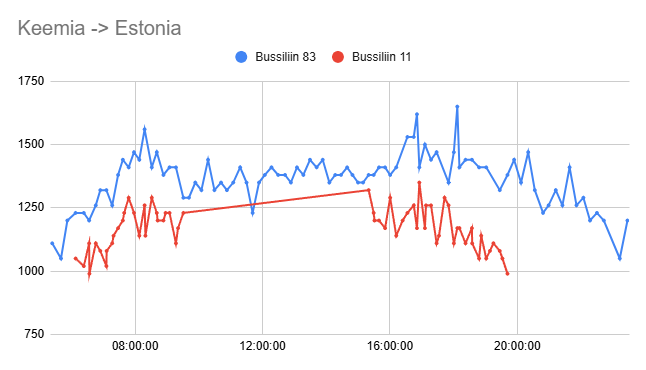
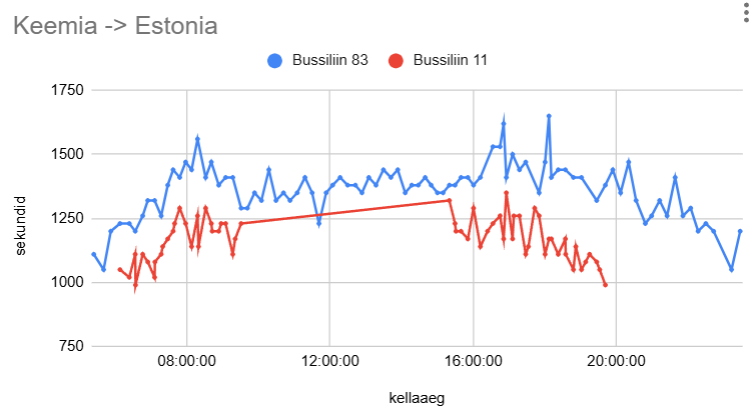
Refactor thesis content and improve references
- Updated the description and captions in the "taust.tex" chapter for clarity and conciseness.
- Enhanced the "tulemused.tex" chapter by refining the abstract and improving the presentation of figures and tables.
- Corrected the formatting of references in "references.bib" for consistency and accuracy, including date formats.
- Added new references related to Tallinn's public transport and data management tools.
- Updated the thesis style file "thesis.sty" to adjust the table of contents formatting.
- Replaced several images with updated versions to enhance visual representation.

diff --git a/thesis_paper/Tallinna ühistranspordi reaalajaandmete kogumine, analüüsimine ja visualiseerimine/chapters/metoodika.tex b/thesis_paper/Tallinna ühistranspordi reaalajaandmete kogumine, analüüsimine ja visualiseerimine/chapters/metoodika.tex
@@ -5,7 +5,7 @@ Töö planeerimisel ei olnud esialgu selge, kuidas täpselt töö valmima peaks.
 \begin{figure}[h!]
     \centering
     \includegraphics[width=0.95\textwidth]{figures/struktuur.png}
-    \caption{Arhitektuuriline lahendus, kus andmed kogutakse ja salvestatakse andmebaasi ning kuvatakse veebilehel olevatel alamlehtedel.}
+    \caption{Arhitektuuriline lahendus.}
     \label{fig:Struktuur}
 \end{figure}
 
@@ -86,15 +86,7 @@ Raspberry Pi 4 ja kõvaketas valiti töö jaoks, kuna mõlemad olid autoril enne
 \section{Andmete kogumise skript} % This creates a new section with the title "First Section of the First Chapter."
 Reaalaajaandmete kogumiseks on kirjutatud Pythonis skript, mida haldab \textit{systemd} ja mis käivitatakse \textit{systemctl} käsureatööriista abil teenusena. See võimaldab skripti automaatset käivitamist, tõrgete korral taaskäivitamist ning logide jälgimist.
 
-Staatilisi andmeid kogutakse iga päev kell 04:00. Esialgu koguti andmeid selliselt nagu \url{transport.tallinn.ee} oma enda veebilehe siseseid päringuid tegi, mis tähendas, et osad andmed olid ebastandartsel kujul ja inimesele raskesti arusaadavad. Kõige suuremaid raskusi põhjustas autorile ajagraafiku failist arusaamine (Joonis \ref{fig:Ajagraafikute}), ning autor ei suutnudki seda lõpikult teha. See muutis teisele uurimusküsimusele ("Kui suured on liinil sõitvate sõidukite hilinemised?") vastuse leidmise väga ajanõudvaks. Alles töö lõpus leiti, et samal leheküljel eksisteeris ka paremini arusaadav fail.
-
-
- \begin{figure}[h!]
-    \centering
-    \includegraphics[width=1\textwidth]{figures/arusaamatud andmed.png}
-    \caption{Paar rida raskesti arusaadavast ajagraafikute failist.}
-    \label{fig:Ajagraafikute}
-\end{figure}
+Staatilisi andmeid kogutakse iga päev kell 04:00. Esialgu koguti andmeid selliselt nagu \url{transport.tallinn.ee} oma enda veebilehe siseseid päringuid tegi, mis tähendas, et osad andmed olid ebastandartsel kujul ja inimesele raskesti arusaadavad. Kõige suuremaid raskusi põhjustas autorile ajagraafiku failist \footnote{\url{https://tallinn.simplytobo.eu/transport_data/transport_data/bus_times_data/2025-06-04/routes.txt}} arusaamine, ning autor ei suutnudki seda lõpikult teha. See muutis teisele uurimusküsimusele ("Kui suured on liinil sõitvate sõidukite hilinemised?") vastuse leidmise väga ajanõudvaks. Alles töö lõpus leiti, et samal leheküljel eksisteeris ka paremini arusaadav fail.
  
 Töö lõpus leiti, et \url{transport.tallinn.ee} lehel on olemas GTFS formaadis koht, kust saab heal kujul andmeid, sealhulgas ajagraafikuid. Autor lisas GTFS andmete kogumise loogika.  Selleks tehakse igal hommikul päring päise (\textit{header}) küsimiseks. Kui päises on rida (\textit{Last-Modified}), mis kirjeldab millal viimati andmeid muudetud, on vahepeal uuenenud, siis tehakse uus päring ja laetakse andmed päriselt alla. GTFS fail on  pigem väike (alla 10 MB), kuid hea tava on ikkagi laadida ainult siis, kui vajadus.
 
@@ -116,16 +108,9 @@ Töö algul moodustasid reaalajaandmed 98\% andmemahust. JSON kujul andmeid kogu
 
 Vahepeal katsetati SQLite andmebaasi võimalusi, kuid andmemahud olid seal sama suured ja suuremadki kui samapalju andmeid JSON kujul kaustades. 
 
-Lõpuks jõuti TimescaleDB juurde ja leiti viis seal andmeid optimaalsemalt hoiustada. Joonisel \ref{fig:TimescaleDB} on näha SQL käske, mille sisestamisel muutus andmebaasi suurus 26 GB pealt 2,8 GB peale (9 kuu andmed). Oma olemuselt seati reaalajaandmete hoiustamisel sisse reegel, et peale seitset päeva andmebaasis olemist muudetakse reapõhine andmebaas tulbapõhiseks ja andmete hoiustamine muudetakse optimaalsemaks \cite{timescale_hypercore}. Selle tulemusel oli andmebaasi nüüd võimalik jagada ja internetist alla laadida mõistliku aja piires\footnote{\url{https://tallinn.simplytobo.eu/transport_data/transport_data/realtime_database_copy/}}. Vahepeal katsetati kiiruse lisatulba lisamisega andmebaasile, mille käigus loodi uus andmebaas nullist, ning tehti samad eelpool tehtud käsud. Peale seda oli andmebaas 2,7 GB suur ja sisaldas 10 kuu andmeid. Võrreldes JSON kujul andmete hoiustamisega oli lõplik tulemus 90\% optimaalsem.
+Lõpuks jõuti TimescaleDB juurde ja leiti viis seal andmeid optimaalsemalt hoiustada.  Optimeerimise käigus muutus andmebaasi suurus 26 GB pealt 2,8 GB peale (9 kuu andmed). Oma olemuselt seati reaalajaandmete hoiustamisel sisse reegel, et peale seitset päeva andmebaasis olemist muudetakse reapõhine andmebaas tulbapõhiseks ja andmete hoiustamine muudetakse optimaalsemaks \cite{timescale_hypercore}. Selle tulemusel oli andmebaasi nüüd võimalik jagada ja internetist alla laadida mõistliku aja piires\footnote{\url{https://tallinn.simplytobo.eu/transport_data/transport_data/realtime_database_copy/}}. Vahepeal katsetati kiiruse lisatulba lisamisega andmebaasile, mille käigus loodi uus andmebaas nullist, ning tehti samad eelpool tehtud käsud. Peale seda oli andmebaas 2,7 GB suur ja sisaldas 10 kuu andmeid. Võrreldes JSON kujul andmete hoiustamisega oli lõplik tulemus 90\% optimaalsem.
 
 Kaustades andmete probleem oli ka nendest koopia tegemise ja jagamise aeglus. Ühe kuu andmete allalaadimine võttis kuskil 15 minutit ja 10 kuu puhul tuli arvestada 3 tunniga. TimescaleDB andmebaasiga  võttis aga 10 kuu kohta koopiafaili tegemine 12 minutit ja selle faili allalaadimine võttis 2 minutit. Allalaadimine muutus 99\% kiiremaks (3 tunni pealt 2 minuti peale).
-
-\begin{figure}[H] % h-here, if possible; H-here, definitely; t-top of the page; b-bottom of the page; p-page of floats
-    \centering
-    \includegraphics[width=.8\textwidth]{figures/timescaleDBSQL.png} % Includes an image from the specified path, setting the width to 50% of the text width
-    \caption{TimescaleDB optimeerimise SQL käsud. Sarnased andmed viiakse üksteisele andmebaasis lähemale ehk konkreetse sõiduki asukohad on järjest ning reapõhised andmed muudetakse 7 päeva möödudes tulbapõhisteks. } % Provides a caption for the figure, italicizing the text
-    \label{fig:TimescaleDB} % Sets a label for the figure to be referenced later
-\end{figure}
 
 \section{Kiiruste arvutamine}
 
@@ -133,14 +118,37 @@ Kuigi kohad, kus kiirusi arvutati, on ajas muutunud, on seda üldiselt alati sam
 
 \begin{figure}[h!]
     \centering
-    \includegraphics[width=0.92\textwidth]{figures/Sqlscript.png}
-    \caption{Kiiruste arvutamise lihtsustatud SQL skript. Esimeses osas leitakse igale asukohale sellele järgnev asukoht. Teises osas leitakse nende kahe asukoha ajaline ja vahemaaline vahe. Kolmandas osas leitakse mõlema jagatis ehk kiirus.}
-    \label{fig:kiirusteSQLskript}
+    \scriptsize
+\begin{lstlisting}
+WITH speed_data AS (
+    SELECT
+        datetime,
+        geom,
+        LEAD(geom) OVER (PARTITION BY type,line,vehicle_idORDER BY datetime)
+        AS next_point,
+        LEAD(datetime) OVER (PARTITION BY type, line,vehicle_id ORDER BY datetime)
+        AS next_time
+    FROM realtimedata
+),segment_data AS (
+    SELECT
+        EXTRACT(EPOCH FROM (next_time - datetime)) 
+        AS time_diff_seconds, 
+        ST_Distance(geom::GEOGRAPHY, next_point::GEOGRAPHY) 
+        AS distance_meters
+    FROM speed_data
+    WHERE next_point IS NOT NULL)
+SELECT 
+    (distance_meters / time_diff_seconds) * 3.6 
+    AS speed_kmh 
+FROM segment_data;
+\end{lstlisting}
+\caption{SQL päring sõiduki kiiruse arvutamiseks.}
+\label{fig:kiirusteSQLskript}
 \end{figure}
 
 \section{Andmete visualiseerimine}
 
-Alguses kogunes päevas 2880 reaalajaandmete faili kaustadesse ning andmete visualiseerimiseks tehti skript, mis pani kõik andmed ühte faili ja pakkis kokku. Hiljem skripti kiirust mõõtes selgus, et ühe päeva andmete salvestamiseks kulus 12 minutit. Seejärel veebileht sai teha päringu ja päeva andmed serverist alla laadida. Veebileht kasutab kaardi kuvamiseks Leaflet teeki \footnote{\url{https://leafletjs.com/}}. Antud kaardile lisati seejärel saadud asukohtade koordinaadid. Võimalik oli liikuda ajas edasi ja tagasi ning näha sõidukite liikumisi. Tegu oli lihtsa lehega. Edasiarenduste tegemine oli keeruline, kuna andmetöötlus oli aeganõudev ning halvasti hallatav. Sellegipoolest loodi Joonisel \ref{fig:Kiirustekaart} näha olev leht. Veebilehel kirjutati kood, mis grupeerib aegread aja asemel liini, tüübi ja sõiduki identifikaatori järgi. Seejärel olid andmed korrastatud sõidetud marsruutide järgi. Seda sai visualiseerida graafikul. Kuna bussikiirused kõiguvad väga palju ja andmeid on palju, siis paremaks kuvamiseks on iga andmepunkt nelja eelmise punkti keskmine. Kuigi muu eeltoodu ei ole enam kasutuses, siis see on endiselt alles.
+Alguses kogunes päevas 2880 reaalajaandmete faili kaustadesse ning andmete visualiseerimiseks tehti skript, mis pani kõik andmed ühte faili ja pakkis kokku. Hiljem skripti kiirust mõõtes selgus, et ühe päeva andmete salvestamiseks kulus 12 minutit. Seejärel veebileht sai teha päringu ja päeva andmed serverist alla laadida. Veebileht kasutab kaardi kuvamiseks Leaflet teeki \cite{leafletjs}. Antud kaardile lisati seejärel saadud asukohtade koordinaadid. Võimalik oli liikuda ajas edasi ja tagasi ning näha sõidukite liikumisi. Tegu oli lihtsa lehega. Edasiarenduste tegemine oli keeruline, kuna andmetöötlus oli aeganõudev ning halvasti hallatav. Sellegipoolest loodi Joonisel \ref{fig:Kiirustekaart} näha olev leht. Veebilehel kirjutati kood, mis grupeerib aegread aja asemel liini, tüübi ja sõiduki identifikaatori järgi. Seejärel olid andmed korrastatud sõidetud marsruutide järgi. Seda sai visualiseerida graafikul. Kuna bussikiirused kõiguvad väga palju ja andmeid on palju, siis paremaks kuvamiseks on iga andmepunkt nelja eelmise punkti keskmine. Kuigi muu eeltoodu ei ole enam kasutuses, siis see on endiselt alles.
 
 Andmete TimescaleDB andmebaasi tõstmisel tekkis vajadus serveri järele, mis võtaks vastu veebilehelt tulevad päringud, teeks päringu andmebaasi pihta ja tagastaks andmed. See muutis ka andmetöötluse loogikat. Nüüd toimus kõik SQL päringute kaudu. Endiselt leiti vahemaa kahe punkti vahel ja kulunud aeg. PostGIS andmebaasi laiendus muutis vahemaa leidmise eriti lihtsaks ja kiireks. Samuti võimaldas see välja lõigata liini otstes ja depoodes seismised.
 
@@ -155,7 +163,7 @@ Keerulisem on lugu GNSS asukohtadega, kuna need ei pruugi näidata õiget kohta 
 \begin{figure}[H] % h-here, if possible; H-here, definitely; t-top of the page; b-bottom of the page; p-page of floats
     \centering
     \includegraphics[width=.8\textwidth]{figures/gpsvead.png} % Includes an image from the specified path, setting the width to 50% of the text width
-    \caption{Bussiliini 1 asukoha andmed 16. märts 2025. Viru Keskuse maaaluse peatuse tõttu on sealsed asukohad ebatäpsed. Samuti on osad punktid Narva maantee ääres olevate majade peal. Ilmselt signaali seintelt peegeldumise tõttu.} % Provides a caption for the figure, italicizing the text
+    \caption{Veaga asukohad Kesklinnas.} % Provides a caption for the figure, italicizing the text
     \label{fig:gpsnoise} % Sets a label for the figure to be referenced later 
 \end{figure}
 
@@ -164,7 +172,7 @@ Joonisel \ref{fig:gpsnoise} on näha, et sõidukite asukohad võivad kohati näi
 \begin{figure}[H] % h-here, if possible; H-here, definitely; t-top of the page; b-bottom of the page; p-page of floats
     \centering
     \includegraphics[width=.8\textwidth]{figures/Kurvsirgemaks.png} % Includes an image from the specified path, setting the width to 50% of the text width
-    \caption{Trammiliini 4 marsruudid hobujaama juures. Kurvi pikkus on 170 m, kuid otse minnes 120 m. Trajektoorid ei jälgi täpselt kurvi, vaid lõikavad seda sirgemaks. Keskmiste kiiruste arvutamisel tuleb siit viga.} % Provides a caption for the figure, italicizing the text
+    \caption{Trajektoorid lõikavad kurvi sirgemaks.} % Provides a caption for the figure, italicizing the text
     \label{fig:kurvsirgeks} % Sets a label for the figure to be referenced later
 \end{figure}
 

diff --git a/thesis_paper/Tallinna ühistranspordi reaalajaandmete kogumine, analüüsimine ja visualiseerimine/chapters/tulemused.tex b/thesis_paper/Tallinna ühistranspordi reaalajaandmete kogumine, analüüsimine ja visualiseerimine/chapters/tulemused.tex
@@ -1,4 +1,4 @@
-Töö tulemusena valmis avalikult kättesaadav veebirakendus, mis on nähtav aadressilt \url{https://tallinn.simplytobo.eu}. Veebilehel valmis töö lõpuks mitu alamlehte. Töö kood on kättesaadav aadressilt \url{https://github.com/Tsarter/TallinnTransport}.
+Töö tulemusena valmis avalikult kättesaadav veebirakendus \footnote{\url{https://tallinn.simplytobo.eu}}. Veebilehel valmis töö lõpuks mitu alamlehte. Töö lähtekood on avalikult kättesaadav. \footnote{\url{https://github.com/Tsarter/TallinnTransport}}
 
 \section{Avalik andmebaas}
 
@@ -11,13 +11,13 @@ Pilte, kus kuvatud kiiruseid linnakaardil, on loodud näiteks Bostoni \cite{bost
 \begin{figure}[h!]
     \centering
     \includegraphics[width=0.8\textwidth]{figures/speedSegmentMap2.png}
-    \caption{Kiirusi kuvav kaart koos mitme filtriga. Aeglasemad kiirused on punased ja kiiremad rohelised. }
+    \caption{Kiirusi kuvav kaart. }
     \label{fig:Kiirustekaart}
 \end{figure}
 
 Joonisel \ref{fig:Kiirustekaart} on näha tallinna ühistranspordi sõidukite kiirusi neljandal aprillil aastal 2025 kella 17:00 - 18:00 vahel. Veebilehe kasutajal on võimalik valida kuupäev ja kellaaeg ning mitme tunni andmeid soovitakse näha. Aitamaks paremini näha aeglaseid kohti on võimalik välja filtreerida segmente kiiruse järgi. Soovides vaadelda konkreetset liini on seda võimalik teha sisestades vastava liini sümboli vastavasse kasti. Valides ka sõidukitüübi, saab tulemuse veelgi täpsemaks ja kuigi 1.november 2024 kadusid liinidelt trollid on antud rakenduses nende valimise võimalus olemas, kuna andmeid hakati koguma varem \cite{trollid}. Viimase võimalusena on võimalik välja jätta kõik segmendid, mis on ühistranspordi peatuste lähedal. Kasutaja saab sisestada numbri meetrites, mille järel ei näidata segmente, mis on lähemal. See aitab paremini näha fooride ja ristmike juures olevaid aeglaseid kohti. Andmete laadimiseks tuleb vajutada nuppu, mille järel saab näha kui palju andmeid laeti ja kui kiiresti.
 
-Kollasega on segmendid, mille kiirus on 20 km/h lähedal. Seda kuna Tabeli \ref{tab:keskmisedMartsis} andmetel on see ühissõidukite keskmine kiirus. Punasega on sellest allpool olevad kiirused ja rohelisega sellest ülevalpool olevad kiirused.
+Kollasega on segmendid, mille kiirus on 20 km/h lähedal. Seda kuna Lisa 2 andmetel on see ühissõidukite keskmine kiirus. Punasega on sellest allpool olevad kiirused ja rohelisega sellest ülevalpool olevad kiirused.
 
 Igale kaardil olevale segmendile saab vajutada, et näha lisainformatsiooni. Selleks on kiirus, liin ja sõiduki identifikaator ning veelgi täpsemalt saab informatsiooni teada, kui vajutada nupule, kus on kirjas \textit{View Speed Graph}.
 
@@ -28,7 +28,7 @@ Nägemaks paremini, kuidas kiirused päeva lõikes ühel liinil muutuvad, loodi 
 \begin{figure}[h]
     \centering
     \includegraphics[width=0.8\textwidth]{figures/speedgraphDepos.png}
-    \caption{Ühe sõiduki ühe päeva kiiruste graafik ja vastav kaart. Kaardil asub sõiduk (sinine täpp) Järvevana teel, graafikul (punane täpp) on näha, et sõiduk liigub keskmisest suurema kiirusega.}
+    \caption{Ühe sõiduki ühe päeva kiiruste graafik ja vastav kaart.}
     \label{fig:KiirusedGraafik}
 \end{figure}
 
@@ -43,7 +43,7 @@ Saamaks paremat arusaama, kui kaua võtab aega ühistranspordil ühest kohast te
 \begin{figure}[h!]
     \centering
     \includegraphics[width=0.8\textwidth]{figures/Liin1VsLiin2V2.png}
-    \caption{Punkti A ja punkti B vahel liikunud sõidukite statistika. Iga liini ja suuna keskmiselt, maksimaalselt ja minimaalselt kulunud aeg on kuvatud.}
+    \caption{Punkti A ja punkti B vahel liikunud sõidukite statistika.}
     \label{fig:Liin1VsLiin2V2}
 \end{figure}
 
@@ -52,7 +52,7 @@ Võimalik on kaardile panna kaks ringi. Punane ring märgib punkti A ja sinine p
 
 \section{Tallinna ühistranspordi keskmine kiirus}
 
-Joonisel \ref{fig:KiirusedGraafik} on näha punast keskmise kiiruse joont. Selle info saab kätte iga liini kohta. Seda teadmist kasutades arvutati välja 2025. aasta märtsi sõidukite keskmised kiirused, mis on toodud välja Tabelis \ref{tab:keskmisedMartsis}.
+Joonisel \ref{fig:KiirusedGraafik} on näha punast keskmise kiiruse joont. Selle info saab kätte iga liini kohta. Seda teadmist kasutades arvutati välja 2025. aasta märtsi sõidukite keskmised kiirused, mis on toodud välja Lisas 2.
 
 Päringu tegemine võttis aega 20 minutit ja on seega aeglasema poolne. Autor on katsetanud eraldi tabeli tegemist taoliste päringute jaoks, mille tulemusel tehti sama päring alla sekundi. Kahjuks pole see lõplikult valmis ja on plaanis valmis teha tulevikus. Seetõttu pole keskmiste kiiruste infot ka avalikul veebilehel.
 
@@ -60,7 +60,7 @@ Katsetati ka muude päringute tegemist. Joonisel \ref{fig:nadalaKeskmine} on nä
 \begin{figure}[H]
     \centering
     \includegraphics[width=0.9\textwidth]{figures/Kiirused5toopaeva2puhke.png}
-    \caption{Kõikide ühissõidukite keskmiste kiiruste graafik ühe nädala vaates kellaaegade 05:00 kuni 23:59 vahel (2025/03/10 - 2025/03/16). Tööpäeva tipptundidel on kiirused aeglasemad, nädalavahetusel on kiirused üldiselt suuremad.}
+    \caption{Kõikide ühissõidukite keskmiste kiiruste graafik ühe nädala vaates.}
     \label{fig:nadalaKeskmine}
 \end{figure}
 
@@ -104,7 +104,7 @@ Käsitsi arvutamise järgi kulus 94,2 km läbimiseks 6 tundi ja 27 minutit. Kesk
 Tegu on umbes 4 protsendilise erinevusega. Tegu ei ole suure eksimusega, kuid siiski on erinevus olemas. Nii automaatse skriptiga kui käsitsi saadud tulemused erinesid 2 minuti võrra ehk inimvea piires. 
 Vahemaa erines 3,5 kilomeetriga. Seda mõningast viga võib põhjustada asjaolu, et asukohaandmed pole päris täpsed ehk kurvid võetakse sirgemaks. Joonisel \ref{fig:KiirusedGraafik} oleva tööriista järgi vaadeldi kurve. Näiteks Joonisel \ref{fig:kurvsirgeks} on viga kuskil 50 m. Arvestades, et tramm sõitis edasi-tagasi 12 korda, siis halvimal juhul tekkis ühes kurvis viga umbes 500 m. Trammiliinil 4 on kolm järsemat kurvi peatuste Lubja, Majaka ja Hobujaama lähedal, lisaks mitmeid laugemaid. Ehk 90 km peale võis sealt tekkida arvestatav viga. Selle lahendamiseks saaks asukohad tõsta teadaoleva marsruudi peale \cite{buenosAires}. Kahjuks jääb see töö mahust välja ja autor lepib teatud veaga kurvide arvutamisel.  
 
-Järgnevalt valideeriti veel nelja erineva bussiliini andmeid. Tabelis \ref{tab:keskmisedMartsis} on välja arvutatud 2025. aasta märtsi liinide liikumiskiirused. Selle abil valiti kõige kiirem bussiliin ehk 38, kõige aeglasem ehk 2 ja lisaks valiti ekspressliin 9, mille marsruut paistis ilma suuremate kurvideta. Bussiliin 81 valiti, kuna oli eelnevalt trolliliin.
+Järgnevalt valideeriti veel nelja erineva bussiliini andmeid. Lisas 2 on välja arvutatud 2025. aasta märtsi liinide liikumiskiirused. Selle abil valiti kõige kiirem bussiliin ehk 38, kõige aeglasem ehk 2 ja lisaks valiti ekspressliin 9, mille marsruut paistis ilma suuremate kurvideta. Bussiliin 81 valiti, kuna oli eelnevalt trolliliin.
 
 \begin{longtable}{|l|c|c|c|c|c|c|}
 \caption{Tulemuste valideerimine valitud sõidukite põhjal. Number 1 märgistab automaatse skripti tulemusi ja number 2 käsitsi valideerimisel saadud tulemusi. }
@@ -127,4 +127,4 @@ Liinide puhul esineb arvestav arv olukordi, kus depoost või depoosse sõitu ei 
 
 Bussiliini 38 puhul tuli viga kõige suurem, mis on tõenäoliselt seotud kurvilise ja kiire marsruudiga Pirita ja Viimsi teedel. Bussiliini 9 puhul tuli viga kõige väiksem ja see on ilmselt kuna Lasnamäelt Mustamäele sõidul pole järske kurve. 
 
-Kuid üldpildis on kõik tulemused väga lähedal Tabelis \ref{tab:keskmisedMartsis} leitud kiirustele. Kiiremad sõidukid ongi kiiremad ja aeglasemad aeglasemad. Seega peab autor leitud kiirusi õigeks, kuid paar protsenti liiga aeglaseks.
+Kuid üldpildis on kõik tulemused väga lähedal Lisas 2 leitud kiirustele. Kiiremad sõidukid ongi kiiremad ja aeglasemad aeglasemad. Seega peab autor leitud kiirusi õigeks, kuid paar protsenti liiga aeglaseks.

diff --git a/thesis_paper/Tallinna ühistranspordi reaalajaandmete kogumine, analüüsimine ja visualiseerimine/chapters/analüüs.tex b/thesis_paper/Tallinna ühistranspordi reaalajaandmete kogumine, analüüsimine ja visualiseerimine/chapters/analüüs.tex
@@ -30,11 +30,11 @@ Teades, et tegelikult oli trammiliini 2 teekond 2,5 minutit aeglasem  ei saanud 
 
 \section{Trammiliini 4 graafikus püsimine}
 
-Graafikus püsimise täpsuse uurimiseks kasutati Joonisel \ref{fig:Liin1VsLiin2V2} olevat tööriista ning saadud andmed sisestati Google Spreadsheeti\footnote{\url{https://workspace.google.com/products/sheets/}}, mille abil saadi Joonis \ref{fig:kalevVaikePaala}.
+Graafikus püsimise täpsuse uurimiseks kasutati Joonisel \ref{fig:Liin1VsLiin2V2} olevat tööriista ning saadud andmed sisestati Google Spreadsheeti \cite{Spreadsheet}, mille abil saadi Joonis \ref{fig:kalevVaikePaala}.
 \begin{figure}[h!]
     \centering
-    \includegraphics[width=0.8\textwidth]{figures/kalev-vaikepaala-kiirused.png}
-    \caption{1. aprillil peatusest Kalev peatuseni Väike-Paala kulunud aeg trammiliinil 4. Tipptundide mõju ei ole näha, kella ühe paiku tekkis üks suurem hilinemine.}
+    \includegraphics[width=0.85\textwidth]{figures/kalev-vaikepaala-kiirused.png}
+    \caption{Graafikus püsimise täpsus.}
     \label{fig:kalevVaikePaala}
 \end{figure}
 Graafiku järgi kulus kella 07:00 hommikust kuni poole kümneni õhtul alati 30 minutit Kalevist Väike-Paalasse sõitmiseks. Reaalajaandmete järgi kulus keskmiselt 30 minutit ja 4 sekundit. 73\% kordadest jõudis sõiduk kohale kuni 1-minutlise veaga. Ühel korral toimus suurem hilinemine, kus sõidukil kulus 7 minutit. Sõiduk peatus Paberi peatuse juures ligikaudu 5 minutit.
@@ -43,11 +43,11 @@ Graafiku järgi kulus kella 07:00 hommikust kuni poole kümneni õhtul alati 30 
 
 \section{Bussiliini ja ekspressliini võrdlus}
 
-Bussiliin 83 ja ekspressliin 11 sõidavad sama marsruuti mööda Keemiast Estoniasse. Seetõttu olid need head liinid, mida võrrelda.
+Bussiliin 83 ja ekspressliin 11 sõidavad sama marsruuti mööda peatuset Keemia peatuseni Estonia. Seetõttu olid need head liinid, mida võrrelda.
 \begin{figure}[h!]
     \centering
     \includegraphics[width=0.8\textwidth]{figures/keemia-estonia.png}
-    \caption{1. aprillil peatusest Keemia peatuseni Estonia kulunud aeg bussiliinidel 83 ja 11. Ekspressliin on kiirem.}
+    \caption{Kahe bussiliini ajakulu võrdlus.}
     \label{fig:keemiaEstonia}
 \end{figure}
 
@@ -61,8 +61,8 @@ Näiteks uuriti Pärnu maantee Kesklinna jäävat osa.
 
 \begin{figure}[h!]
     \centering
-    \includegraphics[width=0.8\textwidth]{figures/parnumnt.png}
-    \caption{1. aprillil peatuse Hallivanamehe juurest Vabaduse väljaku ristini kulunud aeg ühissõidukitel. Linnast väljudes on tipptunni mõju näha, linna sisse sõites aga mitte.}
+    \includegraphics[width=0.9\textwidth]{figures/parnumnt.png}
+    \caption{Teelõigu ajakulu väljavõte.}
     \label{fig:parnumnt}
 \end{figure}
 
@@ -70,7 +70,7 @@ Nagu Jooniselt \ref{fig:parnumnt} näha, siis päeva jooksul oli suund Vabaduse 
 
 Kasutaja poolest on ilmselt parem pidevalt ühtlane kiirus, kui tipptunnil  suurem ajakulu. Peatükis \ref{section:Kiirused-kaardil} kirjeldatud tööriista abil vaadeldi, et sisuliselt kogu teekond Pärnu maantee viaduktist kuni Hallivanameheni oli tipptunnil ühissõidukile punane. Täies pikkuses ühissõidukiraja loomine on hetkel ilmselt liiga suur ettevõtmine, kuid kui tuleviks peaks tramm Järve keskuseni sõitma hakkama, siis oleks  antud andmete järgi mõistlik ehituse käigus ka ühisrada planeerida \cite{err_jarve_tramm_2024}.
 
-Kaardirakenduse Waze\footnote{\url{https://www.waze.com/}} järgi võtab autoga Vabaduse väljakult Hallivanameheni jõudmine tipptunnil aega kuskil 10 minutit. Jättes kõrvale bussipeatusesse kõndimise ja sõiduki ootamise, siis bussiraja olemasolul oleks tipptunnil buss antud teekonnal autost tõenäoliselt kiirem.  See võiks muuta Pärnu maanteed mööda liikuvaid ühistranspordiliine atraktiivsemaks. Seeläbi tõuseks Pärnu maantee läbilaskevõime, kuna bussidesse mahub rohkem inimesi.
+Kaardirakenduse Waze \cite{waze} järgi võtab autoga Vabaduse väljakult Hallivanameheni jõudmine tipptunnil aega kuskil 10 minutit. Jättes kõrvale bussipeatusesse kõndimise ja sõiduki ootamise, siis bussiraja olemasolul oleks tipptunnil buss antud teekonnal autost tõenäoliselt kiirem.  See võiks muuta Pärnu maanteed mööda liikuvaid ühistranspordiliine atraktiivsemaks. Seeläbi tõuseks Pärnu maantee läbilaskevõime, kuna bussidesse mahub rohkem inimesi.
 
 \section{Edasiarenduste võimalused}
 
@@ -84,5 +84,5 @@ Keskmiste kiiruste arvutamise täpsuse tõstmiseks saaks sobitada sissetulevaid 
 
 Kuigi iga 30 sekundi tagant kogumine tähendas siin töös kiiremaid päringuid, lihtsamat töötlemist ja väiksemat andmebaasi, siis võiks kaaluda tihedamalt kogumist. Näiteks iga 10 sekundi tagant kogumine võiks anda parema täpsuse. Loodud andmebaasi struktuur ja andmed tuleks viia GTFS standardile vastavaks. Selliselt oleks andmebaasi andmeid kolmandatel osapooltel lihtsam kasutada.
 
-Praegu kasutuses olev PostGIS andmebaasi laiend võimaldab küll teha geograafilisi päringuid lihtsasti, kuid sõidukite sõitude analüüsimiseks saaks lisada rohkemate lisadega laiendit nimega MobilityDB\footnote{\url{https://mobilitydb.com/}}. See on spetsiaalselt loodud järjestatud geograafiliste aegridade analüüsimiseks. See ei asenda PostGIS laiendit, kuid võimaldaks lisafunktsioone. Näiteks hetkel saab lihtsasti kätte sõiduki läbitud geograafiliste asukohtade jada \footnote{\url{https://postgis.net/docs/ST_MakeLine.html}}, kuid ilma ajalise mõõtmeta. MobilityDB lahendaks selle mure, kuna võimaldab lisada igale asukohale näiteks kellaaja ja kiiruse. Lisaks, kui praegu on sõiduki asukohaandmed andmebaasis olemas kella 14:30:00 ja  14:30:30 jaoks, siis MobilityDB abil saaks leida eeldatava kiiruse ja asukoha ükskõik millal, ka kell 14:30:15. Päringute puhul ei oleks enam oluline teada konkreetset aega ega asukohta.
+Praegu kasutuses olev PostGIS andmebaasi laiend võimaldab küll teha geograafilisi päringuid lihtsasti, kuid sõidukite sõitude analüüsimiseks saaks lisada rohkemate lisadega laiendit nimega MobilityDB \cite{mobilitydb}. See on spetsiaalselt loodud järjestatud geograafiliste aegridade analüüsimiseks. See ei asenda PostGIS laiendit, kuid võimaldaks lisafunktsioone. Näiteks hetkel saab lihtsasti kätte sõiduki läbitud geograafiliste asukohtade jada \cite{postgis}, kuid ilma ajalise mõõtmeta. MobilityDB lahendaks selle mure, kuna võimaldab lisada igale asukohale näiteks kellaaja ja kiiruse. Lisaks, kui praegu on sõiduki asukohaandmed andmebaasis olemas kella 14:30:00 ja  14:30:30 jaoks, siis MobilityDB abil saaks leida eeldatava kiiruse ja asukoha ükskõik millal, ka kell 14:30:15. Päringute puhul ei oleks enam oluline teada konkreetset aega ega asukohta.
 

diff --git a/thesis_paper/Tallinna ühistranspordi reaalajaandmete kogumine, analüüsimine ja visualiseerimine/chapters/taust.tex b/thesis_paper/Tallinna ühistranspordi reaalajaandmete kogumine, analüüsimine ja visualiseerimine/chapters/taust.tex
@@ -28,11 +28,11 @@ Eestis on võimalik GTFS formaadis andmeid saada ühistranspordiregistri kaudu  
 \begin{figure}[h!]
     \centering
     \includegraphics[width=0.9\textwidth]{figures/g2viz.png}
-    \caption{G2VIZ nimelises tööriist, kus on näha ühissõidukite kohta statistikat. Joonise üleval on visualiseeritud on iga tunni kohta keskmine, maksimaalne ja minimaalne kiirus. Kaardil saab näha sõidukite liikumisi. Visualiseerida saab staatilisi andmeid (GTFS) ehk mitte reaalseid liikumisi.}
+    \caption{G2VIZ nimeline tööriist, kus on näha ühissõidukite kohta statistikat.}
     \label{fig:sample}
 \end{figure}
 
-G2VIZ puhul on tegu väga lihtsasti kasutatava veebilehega, kuhu saab üles laadida GTFS formaadis kokkupakitud faili \cite{2024_pt_g2viz}. Veebilehe kasutamine on tasuta, kuid ühe piiranguna on seatud üleslaaditava faili suurus. Maksimaalne suurus on 10 MB, mis näiteks ei võimalda üles laadida Eesti ühistranspordiregistrist saadaolevat faili, kuna selle suurus on rohkem kui 10 MB. Tallinna transpordi lehelt\footnote{\url{https://transport.tallinn.ee/data/gtfs.zip}} allalaaditav fail on kuskil 6 MB suur, kuid selle üleslaadimisel annab lehekülg veateate. Autor on kontakteerunud veebilehe haldajaga, kuid pole vastust saanud.
+G2VIZ puhul on tegu väga lihtsasti kasutatava veebilehega, kuhu saab üles laadida GTFS formaadis kokkupakitud faili \cite{2024_pt_g2viz}. Veebilehe kasutamine on tasuta, kuid ühe piiranguna on seatud üleslaaditava faili suurus. Maksimaalne suurus on 10 MB, mis näiteks ei võimalda üles laadida Eesti ühistranspordiregistrist saadaolevat faili, kuna selle suurus on rohkem kui 10 MB. Tallinna transpordi lehelt allalaaditav fail on kuskil 6 MB suur \cite{transportTallinnEeGTFS}, kuid selle üleslaadimisel annab lehekülg veateate. Autor on kontakteerunud veebilehe haldajaga, kuid pole vastust saanud.
 
 Pärast vea parandamist oleks teoreetiliselt lehel võimalik näha analüütilisi tulemusi maksimaalsete, minimaalsete ja keskmiste kiiruste kohta tundide järgi. Seda küll mitte geograafilise asukohtade järgi, vaid liinigraafiku põhjal. See tähendab ka, et antud rakendus ei arvesta liinivõrgus juhtuda võivate ummikute, õnnetuste ja muu ootamatute olukordade põhjustatud liinigraafikust kõrvalekalletega.
 
@@ -43,7 +43,7 @@ Pikase puhul on tegu ühistranspordi sõiduplaanide koostamise ja koordineerimis
 \begin{figure}[h!]
     \centering
     \includegraphics[width=1\textwidth]{figures/pikasLeedu.jpg}
-    \caption{Analüütiline vaade Pikas süsteemis, kus on kuvatud bussiliini 2G hilinemine peatuste kaupa tööpäeval 3.10.2013 GPS andmete järgi on\cite{merakas_pikas}.}
+    \caption{Analüütiline vaade süsteemis nimega Pikas \cite{merakas_pikas}.}
     \label{fig:pikasLeedu}
 \end{figure}
 
@@ -71,7 +71,7 @@ Eestis on mitmeid reisiplaneerijaid, mis võimaldavad kasutajal näha ühistrans
         \caption{}
         \label{fig:https://gis.ee/tallinn/}
     \end{subfigure}
-    \caption{Tallinnas avalikult kättesaadavad reisiplaneerijad (a) \url{https://web.peatus.ee/} ja (b) \url{https://gis.ee/tallinn/}.}
+    \caption{Reisiplaneerijad (a) \url{https://web.peatus.ee/} ja (b) \url{https://gis.ee/tallinn/}.}
     \label{fig:combined}
 \end{figure}
 
@@ -80,7 +80,7 @@ Joonisel \ref{fig:Peatus.ee} olev veebileht  on lihtsasti kasutatav reisiplaanee
 
 Joonisel \ref{fig:https://gis.ee/tallinn/} olev veebileht on samuti reisiplaneerija, kuid seal on kohe avavaates olemas ka üle terve linna reaalajas liikuvad sõidukid ja iga peatuse juures on lisainfo hilinemiste kohta.
 
-Tallinnal on ka eraldi veebileht \footnote{\url{https://transport.tallinn.ee/}}, kust saab vaadelda reaalajas väljumisi. 
+Tallinnal on ka eraldi veebileht \cite{transportTallinnEe}, kust saab vaadelda reaalajas väljumisi. 
 
 Kõikide reisiplaneerijate puhul on puuduseks see, et rakendused ei ole mõeldud mitte ühistranspordi võrgu analüüsimiseks, vaid hetkeliseks vaatluseks.
 

diff --git a/thesis_paper/Tallinna ühistranspordi reaalajaandmete kogumine, analüüsimine ja visualiseerimine/misc/abstract-english.tex b/thesis_paper/Tallinna ühistranspordi reaalajaandmete kogumine, analüüsimine ja visualiseerimine/misc/abstract-english.tex
@@ -1,7 +1,7 @@
 % Abstract's text goes here (square brackets should be removed)
 The goal of this thesis is to analyze the movement speeds of Tallinn's public transport based on realtime location data, in order to identify slower and faster sections within the transit network. The work addresses the challenge of interpreting large volumes of spatial and time data in a way that is useful to the end user.
 
-During the project, a software solution was developed that includes data collection, storage, processing, and visualization for the user. The core of the system is a PostgreSQL database, enhanced with the TimescaleDB extension for more efficient time-based data handling. For spatial data processing, the PostGIS extension was used. Compared to the initial setup, the volume of data was reduced by 90\%, while query speeds were improved by several orders of magnitude.
+During the project, a software solution was developed that includes data collection, storage, processing, and visualization for the user. The core of the system is a PostgreSQL database, enhanced with the TimescaleDB extension for more efficient time-based data handling. For spatial data processing, the PostGIS extension was used. Compared to the initial setup, the volume of data was reduced by 90\% and query speeds improved significally.
 
 As a result, an interactive web application was created. Its main features include: a map highlighting slow sections of transit routes, detailed speed graph of an individual vehicle over the course of a day, and travel time estimation between two geographic points. The first feature provides a quick overview of the city public transport and visualizes the impact of rush hour on transit speed. The second is a precision tool that shows individual vehicle speeds. The third enables analysis of individual lines, multiple lines simultaneously, and routes that traverse different paths. Additionally, the average speed of all lines including trams, buses, and overall was calculated for March 2025.
 

diff --git a/thesis_paper/Tallinna ühistranspordi reaalajaandmete kogumine, analüüsimine ja visualiseerimine/appendices/appendices_main.tex b/thesis_paper/Tallinna ühistranspordi reaalajaandmete kogumine, analüüsimine ja visualiseerimine/appendices/appendices_main.tex
@@ -6,7 +6,6 @@
 \addcontentsline{toc}{chapter}{\appendixTitle~2 -- Ühistranspordi liinide keskmised kiirused märtsis 2025}\label{chapter:appendix-something} % Adds an entry to the table of contents
 \chapter*{\appendixTitle~2 -- Ühistranspordi liinide keskmised kiirused märtsis 2025} % Creates an unnumbered chapter
 \input{appendices/martsiKeskmisedKiirused.tex} % Includes the content of the specified file (appendix-something.tex)
-
 %\clearpage
 %\phantomsection
 %\addcontentsline{toc}{chapter}{\appendixTitle~3 -- Something %Else}\label{chapter:appendix-something-else}

diff --git a/thesis_paper/Tallinna ühistranspordi reaalajaandmete kogumine, analüüsimine ja visualiseerimine/appendices/martsiKeskmisedKiirused.tex b/thesis_paper/Tallinna ühistranspordi reaalajaandmete kogumine, analüüsimine ja visualiseerimine/appendices/martsiKeskmisedKiirused.tex
@@ -1,9 +1,7 @@
 
+5 trammiliini ja  68 bussiliini keskmised kiirused märtsis 2025.
 
-
-\begin{longtable}{|l|c|c|c|}
-\caption{5 trammiliini ja  68 bussiliini keskmine kiirus märtsis 2025. }
-\label{tab:keskmisedMartsis}\\ \hline
+\begin{longtable}{|l|c|c|c|} \hline
  \textbf{Keskmine kiirus (km/h)}  & \textbf{Liini number}  & \textbf{Liik} \\
 \hline
 \endfirsthead
